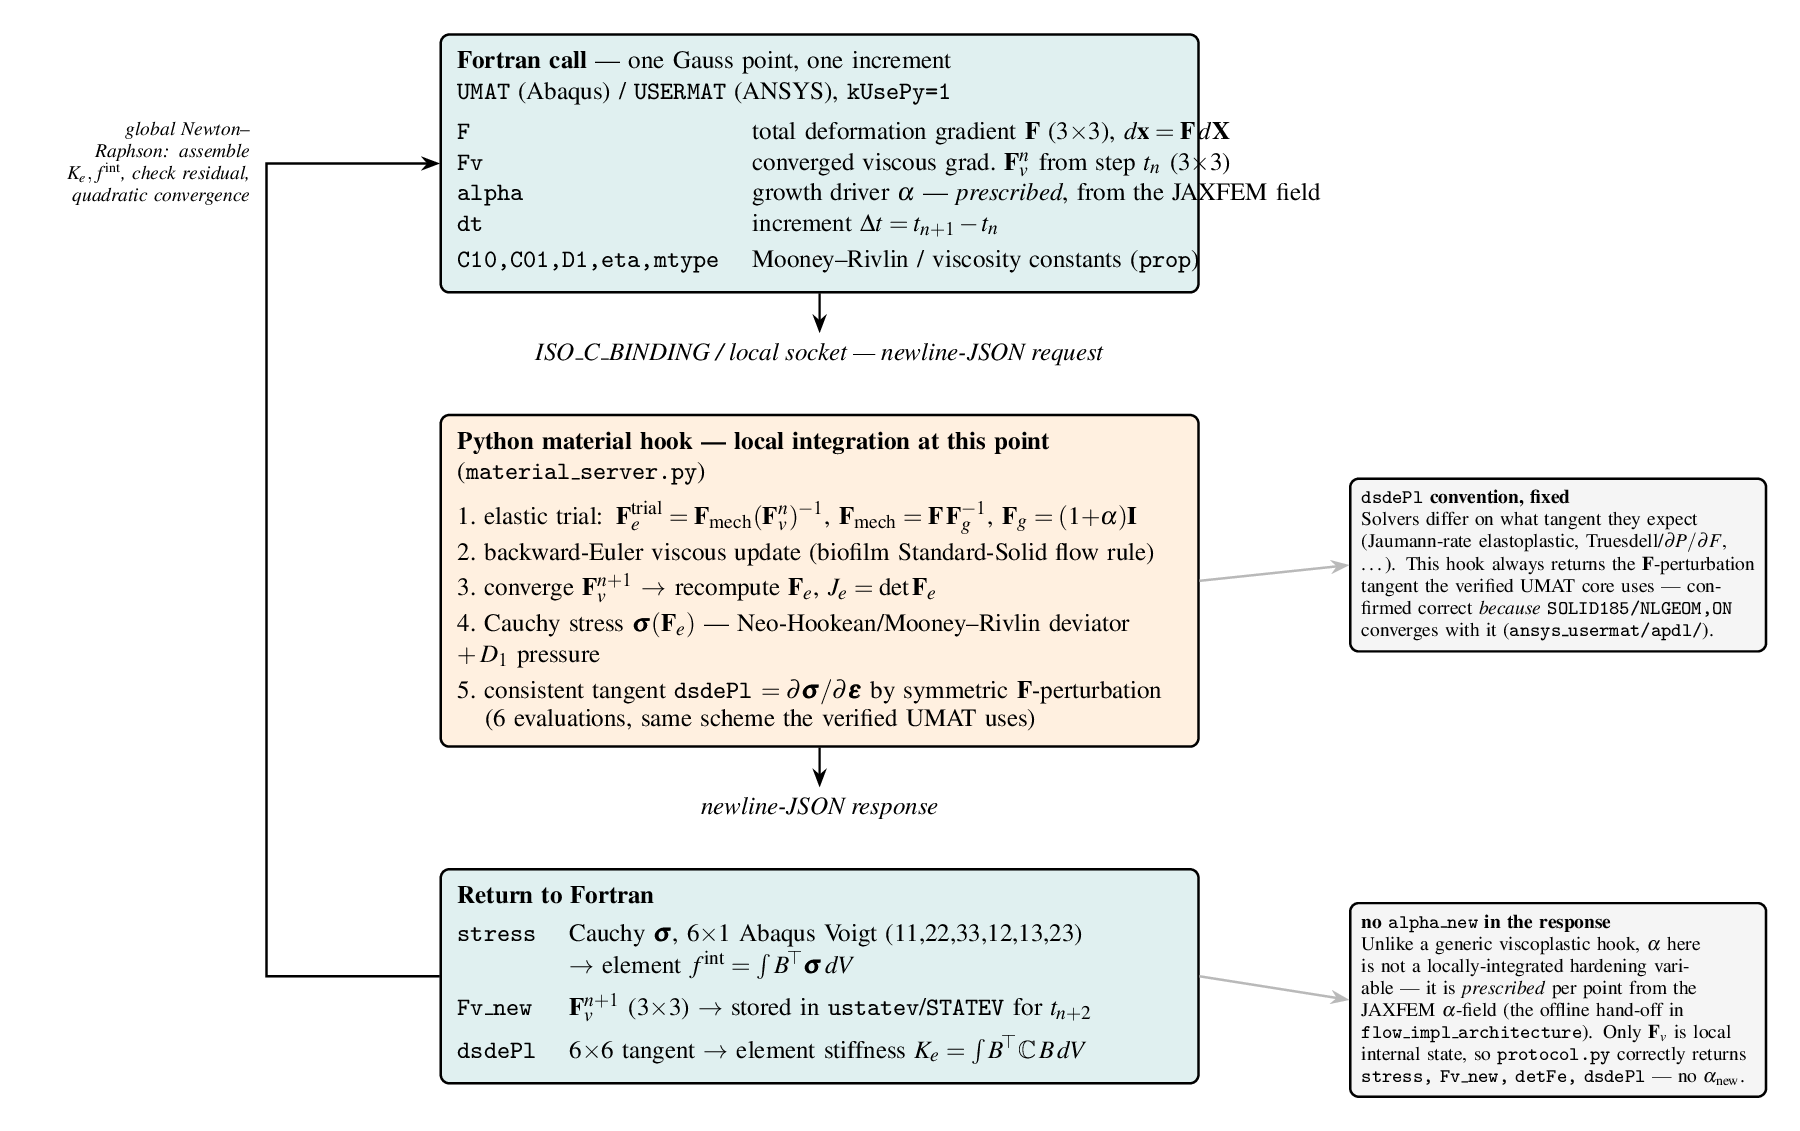
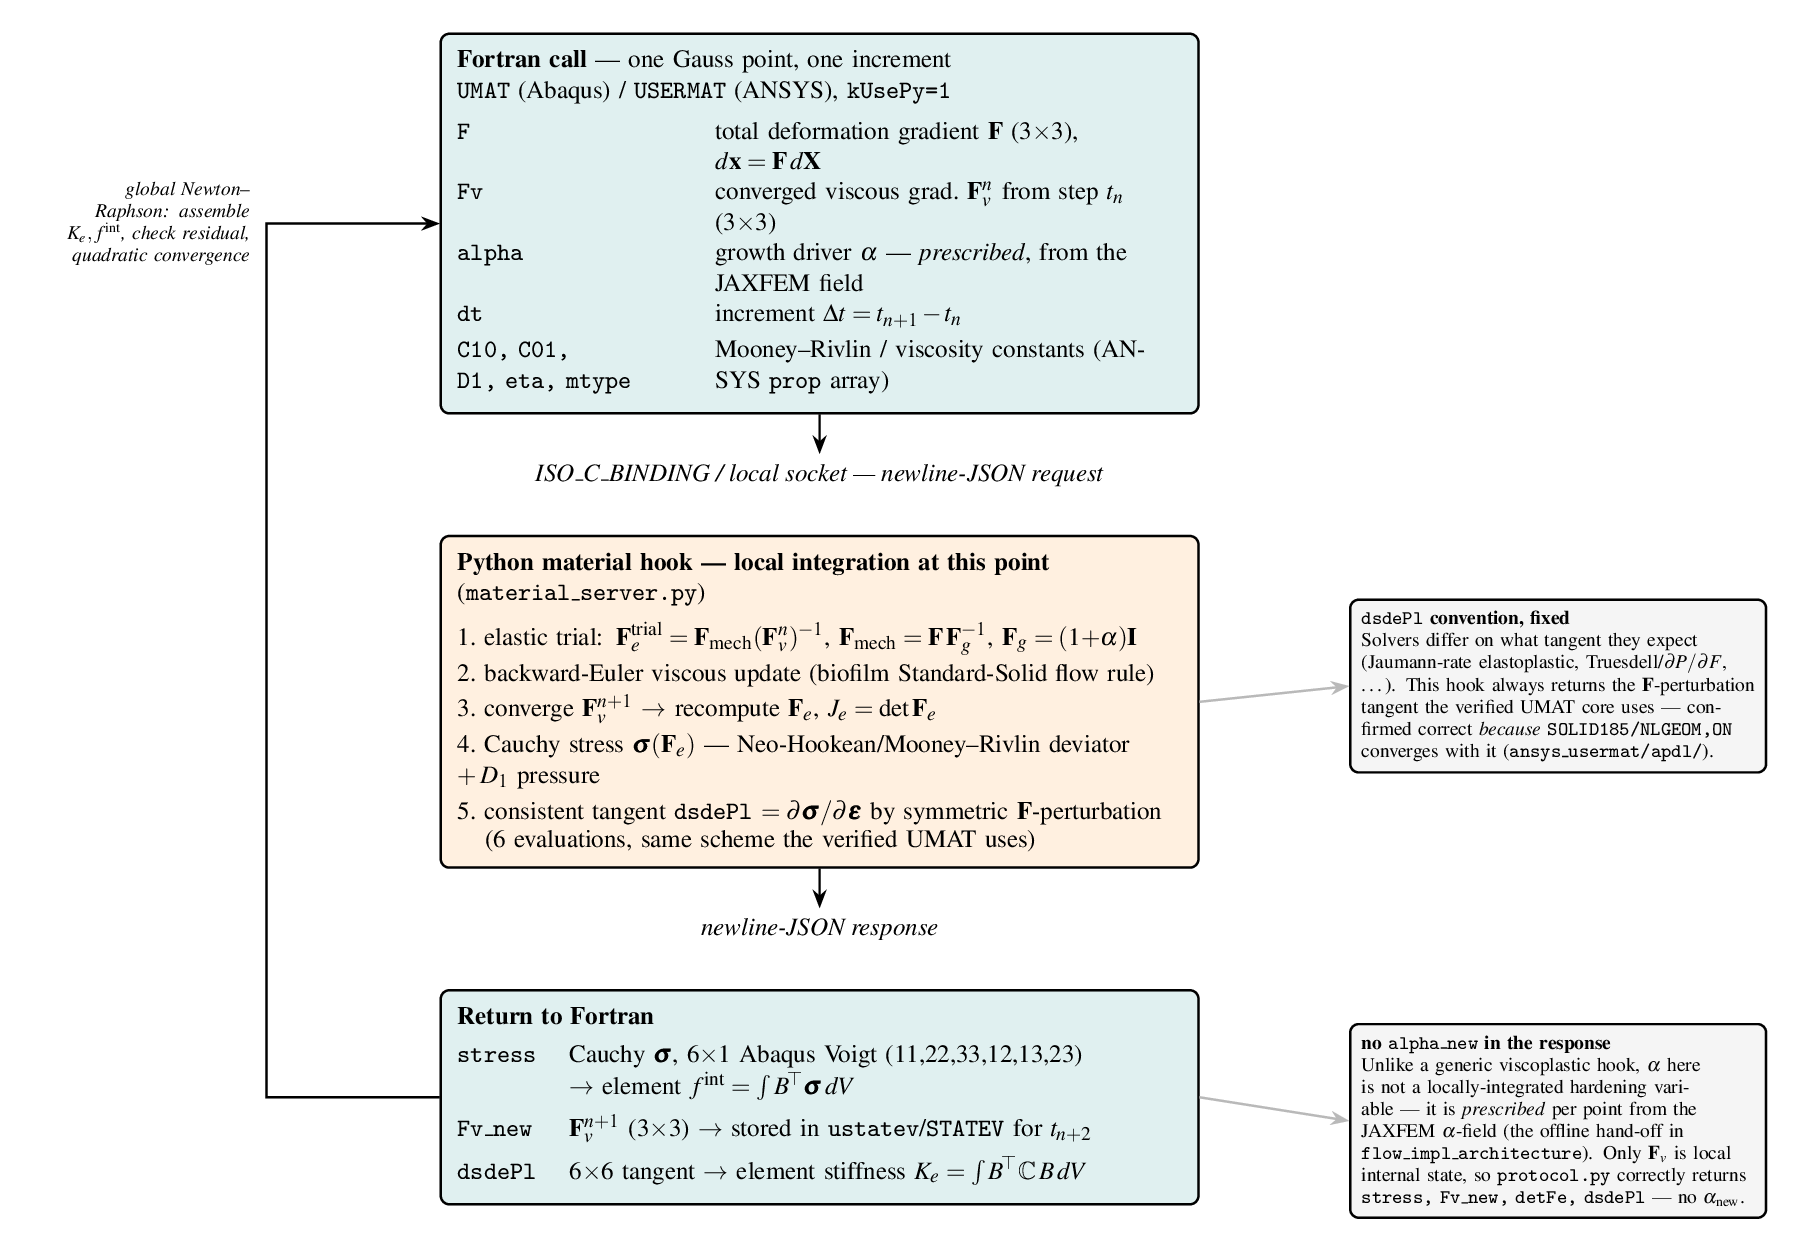
flow_python_material_hook: fix text overflowing the first box
The Fortran-call box's input table wasn't width-constrained: column 2 sized
itself to its widest content and column 1's texttt property-list label
(C10,C01,D1,eta,mtype) is a single unbroken token LaTeX won't hyphenate, so
together they ran past the node's 9.2cm text width -- visible as the Fv row's
'(3x3)' poking through the box border and, after a first pass, the last row's
label running directly into its description with no space.

Fixed by making both tabular columns fixed-width p{} paragraph columns (2.85cm /
5.85cm) so every cell wraps instead of overflowing, plus an explicit line break
in the one label that still didn't fit on one line. Zero Overfull/Underfull hbox
warnings from pdflatex now, and every row's text stays inside its box border on
inspection. PNG asset regenerated at 200dpi.

Changed region(s): [[0.0311, 0.0, 0.7467, 0.9903], [0.7156, 0.4332, 0.9956, 0.6189], [0.6844, 0.8046, 0.9956, 0.9903]]

diff --git a/ch5_flow/flow_python_material_hook.tex b/ch5_flow/flow_python_material_hook.tex
@@ -22,12 +22,12 @@
 \node[Nio] (in) {%
   \textbf{Fortran call} — one Gauss point, one increment\\
   \texttt{UMAT} (Abaqus) / \texttt{USERMAT} (ANSYS), \texttt{kUsePy=1}\\[4pt]
-  \begin{tabular}{@{}ll@{}}
+  \begin{tabular}{@{}p{2.85cm}p{5.85cm}@{}}
   \texttt{F} & total deformation gradient $\mathbf F$ (3$\times$3), $d\mathbf x=\mathbf F\,d\mathbf X$\\
   \texttt{Fv} & converged viscous grad.\ $\mathbf F_v^n$ from step $t_n$ (3$\times$3)\\
   \texttt{alpha} & growth driver $\alpha$ — \emph{prescribed}, from the JAXFEM field\\
   \texttt{dt} & increment $\Delta t=t_{n+1}-t_n$\\[2pt]
-  \texttt{C10,C01,D1,eta,mtype} & Mooney--Rivlin / viscosity constants (\texttt{prop})
+  \texttt{C10, C01,}\newline\texttt{D1, eta, mtype} & Mooney--Rivlin / viscosity constants (ANSYS \texttt{prop} array)
   \end{tabular}};
 
 \node[below=0.5cm of in] (req) {\textit{ISO\_C\_BINDING / local socket — newline-JSON request}};
